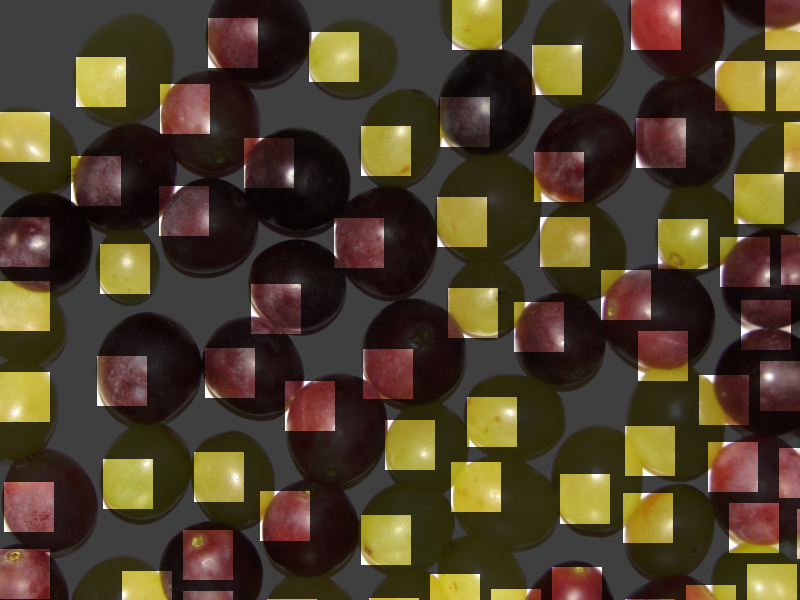
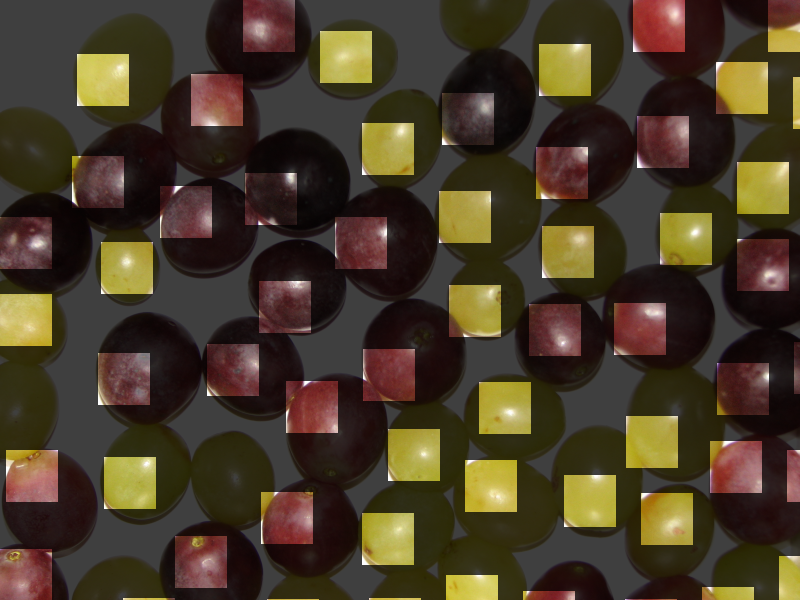
Minor tweaks to colour detection algorithm.
Increased the cutoff distance between red and green comparison, so we'll
more reliably nab purple.

Looking good, I'll reshape the algorithm subtly to factor in acrons.

And no, I swear I have no intention of reliably telling the difference
between the god-damn nuts. We just want to get a pass dammit!

diff --git a/Zadanie 3/algoMain/detectGrape.java b/Zadanie 3/algoMain/detectGrape.java
@@ -79,7 +79,7 @@ public class detectGrape {
 						//System.out.println("AverageRG: "+avgRG);
 						//System.out.println("AverageGB :"+avgGB);
 						//Check for purple, since it's much easier. If it's not purple, it's green.
-						if (totalRed>avgGB && totalRed>totalGreen+10) this.numberPurpl++;
+						if (totalRed>avgGB && totalRed>totalGreen+25) this.numberPurpl++;
 						else this.numberGreen++;
 						
 						//TODO: Write the colour-comparison function, eventually.

diff --git a/Zadanie 3/main.java b/Zadanie 3/main.java
@@ -9,7 +9,7 @@ public class main {
 	public static void main(String[] args) throws IOException{
 		int[][][] img = imageRW.readImage("Wino", "count13.bmp");
 		
-		detectGrape test = new detectGrape(img, 50, 50, 2);
+		detectGrape test = new detectGrape(img, 52, 52, 2);
 		//imageRW.checkMapSave(test.checkMap, 800, 600, "testCheck.png");
 		imageRW.saveCompound(test, 800, 600, "compound.png");
 	}
